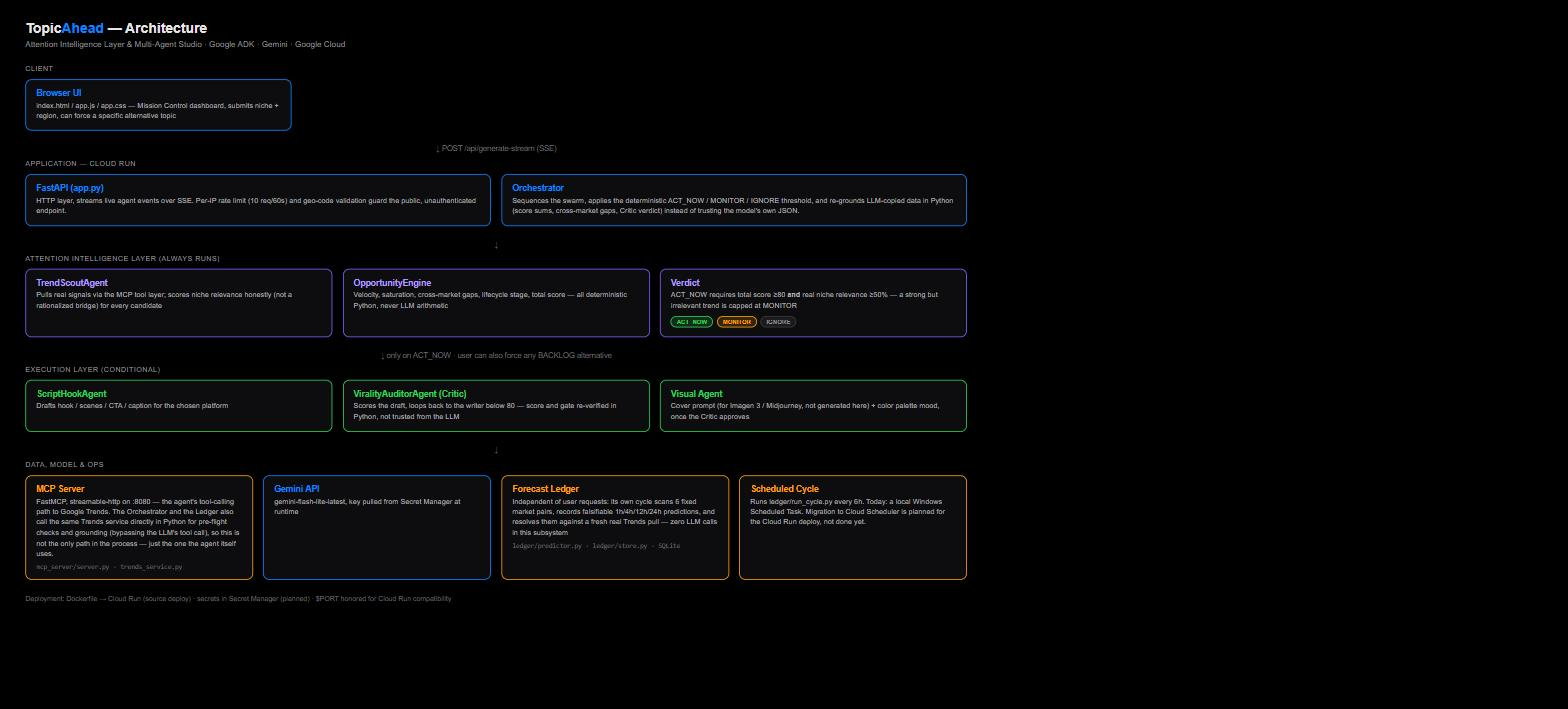
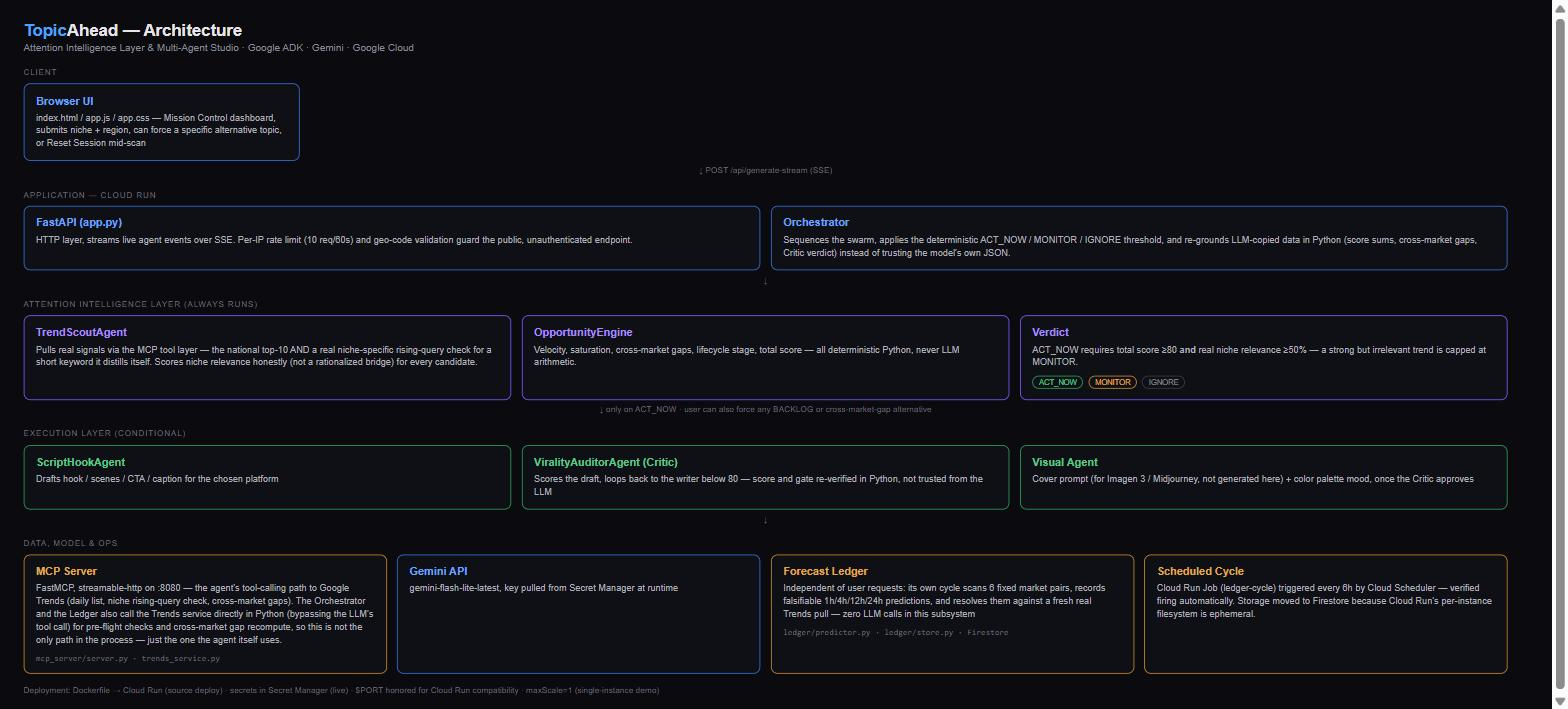
Fix README/architecture-diagram claims left stale by the Firestore migration and niche-signals tool
README (mermaid diagram, Forecast Ledger section, Quick Start) still said
predictions live in a local data/ledger.db via SQLite and that the Ledger
cycle runs on a local Windows scheduled task - both replaced by Firestore
+ a Cloud Run Job/Cloud Scheduler cycle two commits ago. Also: test count
said 39, actual is 46; the Cloud Run deploy example used a plaintext
--set-env-vars key instead of the Secret Manager approach actually used
in production; get_niche_trend_signals was missing from the tool list.
docs/architecture.jpg had the same SQLite/"migration planned, not done"
staleness - regenerated.

diff --git a/ledger/store.py b/ledger/store.py
@@ -34,7 +34,8 @@ class FirestoreBackend:
     """Real backend - one 'predictions' collection in the project's default Firestore database."""
 
     def __init__(self, project: str | None = None):
-        from google.cloud import firestore  # local import: keep Firestore an optional dependency for pure in-memory usage (e.g. offline tests)
+        # Local import: keeps Firestore an optional dependency for pure in-memory usage (e.g. offline tests).
+        from google.cloud import firestore
 
         self._client = firestore.Client(project=project) if project else firestore.Client()
         self._collection = self._client.collection(COLLECTION_NAME)

diff --git a/README.md b/README.md
@@ -33,6 +33,7 @@ flowchart TD
         TrendsTool["📈 get_daily_trends(geo)"]
         IntentTool["🔍 get_rising_search_intent(keyword)"]
         RadarTool["🎯 get_grounded_opportunity_candidates(geo, keyword)"]
+        NicheTool["🐾 get_niche_trend_signals(keyword, geo)"]
         GapsTool["🌍 get_cross_market_gaps(baseline_geo, target_geo)"]
         LedgerTool["🔮 get_forecast_accuracy()"]
         BenchmarkTool["📊 get_virality_benchmarks(platform)"]
@@ -45,7 +46,7 @@ flowchart TD
 
     subgraph Ledger ["🔮 Forecast Ledger (no LLM — pure deterministic + HTTP)"]
         Predictor["ledger/predictor.py: emits & resolves\nfalsifiable predictions at 1h/4h/12h/24h"]
-        Store["ledger/store.py: SQLite (data/ledger.db)"]
+        Store["ledger/store.py: Firestore (Cloud Run's per-instance\nfilesystem is ephemeral, so a local DB file would be wiped)"]
         Cycle["ledger/run_cycle.py: scheduled every 6h"]
     end
 
@@ -81,7 +82,7 @@ Computed deterministically in `agents/scoring.py` from real signals — never gu
 
 ## 🔮 The Forecast Ledger
 
-The core differentiator: no competitor researched (VyralFlow, Content_Studio.ai, YoTrends, vidIQ, Virlo) publishes this as a product. Every candidate with real velocity and a real cross-market gap generates falsifiable predictions at **1h, 4h, 12h and 24h** horizons simultaneously, stored with a timestamp in `data/ledger.db`. A scheduled cycle (`ledger/run_cycle.py`, every 6 hours) resolves due predictions against a fresh real Trends pull and updates accumulated accuracy stats, exposed live via the `get_forecast_accuracy()` MCP tool. **Zero LLM calls** in this subsystem — pure deterministic computation + HTTP, so it's free, unlimited, and actually falsifiable instead of "the model says it remembers correctly."
+The core differentiator: no competitor researched (VyralFlow, Content_Studio.ai, YoTrends, vidIQ, Virlo) publishes this as a product. Every candidate with real velocity and a real cross-market gap generates falsifiable predictions at **1h, 4h, 12h and 24h** horizons simultaneously, stored with a timestamp in Firestore (see `ledger/README.md` for why this isn't a local SQLite file — Cloud Run's per-instance filesystem is ephemeral). A scheduled Cloud Run Job + Cloud Scheduler cycle (`ledger/run_cycle.py`, every 6 hours) resolves due predictions against a fresh real Trends pull and updates accumulated accuracy stats, exposed live via the `get_forecast_accuracy()` MCP tool. **Zero LLM calls** in this subsystem — pure deterministic computation + HTTP, so it's free, unlimited, and actually falsifiable instead of "the model says it remembers correctly."
 
 ---
 
@@ -89,7 +90,7 @@ The core differentiator: no competitor researched (VyralFlow, Content_Studio.ai,
 
 | Agent Name | Role & Responsibility | Core Tools / Engine |
 | :--- | :--- | :--- |
-| **1. 📈 TrendScoutAgent** | Discovers breakout Google searches, rising search intent, lifecycle stage and cross-market gaps in real time via the FastMCP server (real MCP protocol, `McpToolset`). | FastMCP Server (`get_grounded_opportunity_candidates`, `get_cross_market_gaps`) + `agents/scoring.py` |
+| **1. 📈 TrendScoutAgent** | Discovers breakout Google searches, rising search intent, lifecycle stage and cross-market gaps in real time via the FastMCP server (real MCP protocol, `McpToolset`). Also checks a short keyword it distills from the niche against `get_niche_trend_signals` so a narrow niche isn't limited to whatever generic national news is trending that day. | FastMCP Server (`get_grounded_opportunity_candidates`, `get_niche_trend_signals`, `get_cross_market_gaps`) + `agents/scoring.py` |
 | **2. 🎬 ScriptHookAgent** | Converts the ACT_NOW opportunity into a high-retention video/carousel script with a 0-3s hook. | Gemini + Pydantic `HookAndScriptResult` |
 | **3. 🛡 ViralityAuditorAgent** | **Critic Loop:** adversarial audit of retention power, brand safety, anti-cliché rules; rejects with a quoted weak line + rewrite until virality score ≥ 80 (max 2 drafts). | Gemini + Pydantic `CriticAuditEvaluation` |
 | **4. 🎨 VisualCreativeAgent** | Generates Imagen/Midjourney cover prompts, color palettes, and tiered hashtag clusters for the **approved** script only. | Gemini + Pydantic `VisualDirectivesResult` |
@@ -132,27 +133,31 @@ Open your browser at **`http://127.0.0.1:8000`**.
 ```bash
 python ledger/run_cycle.py
 ```
-In normal operation this runs automatically every 6 hours via a scheduled task — see `ledger/run_cycle.bat`.
+Needs credentials for the Firestore project (or run it from an environment already authenticated to one — see `ledger/README.md`). In production this runs automatically every 6 hours via a Cloud Run Job triggered by Cloud Scheduler, not a local scheduled task.
 
 ### 5. Run the test suite
 ```bash
 pip install -r requirements-dev.txt
 pytest tests/
 ```
-39 tests: deterministic scoring (`test_scoring.py`), the ledger against a temporary DB with no network (`test_ledger.py`), and ADK agent construction (`test_agents_construction.py`).
+46 tests: deterministic scoring (`test_scoring.py`), the ledger against an in-memory fake backend with no network (`test_ledger.py`), and ADK agent construction (`test_agents_construction.py`).
 
 ---
 
 ## ☁ Google Cloud Run Deployment
 
 ```bash
-# Build & Deploy to Google Cloud Run
-gcloud builds submit --tag gcr.io/YOUR_PROJECT_ID/topicahead
-gcloud run deploy topicahead \
-    --image gcr.io/YOUR_PROJECT_ID/topicahead \
-    --platform managed \
-    --allow-unauthenticated \
-    --set-env-vars GEMINI_API_KEY=your_key,MODEL=gemini-flash-lite-latest
+# Build & deploy directly from source - Cloud Run builds the container itself
+# from the Dockerfile, no local Docker or separate gcloud builds step needed.
+gcloud run deploy topicahead --source . --region=us-central1
+
+# The Gemini key is never passed as a plain --set-env-vars value (that leaks it
+# into shell history and Cloud Run's own config metadata) - store it in Secret
+# Manager once, then reference it by name on deploy:
+echo -n "your_actual_gemini_api_key" | gcloud secrets create gemini-api-key --data-file=-
+gcloud run deploy topicahead --source . --region=us-central1 \
+    --set-env-vars MODEL=gemini-flash-lite-latest \
+    --set-secrets GEMINI_API_KEY=gemini-api-key:latest
 ```
 
 ---
